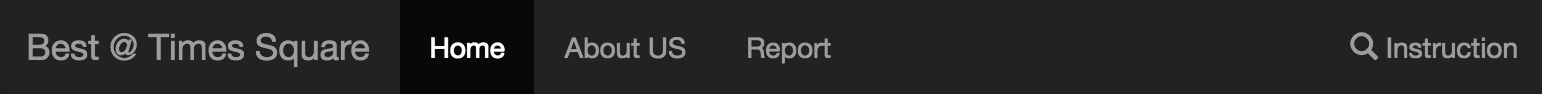
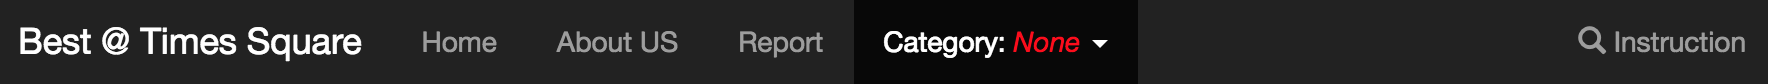
modal updated

diff --git a/EDAV/index.html b/EDAV/index.html
@@ -9,8 +9,8 @@
   <script src="https://ajax.googleapis.com/ajax/libs/jquery/1.9.1/jquery.min.js" ></script>
   <script src="https://ajax.googleapis.com/ajax/libs/jqueryui/1.10.2/jquery-ui.min.js"></script>
   <script type="text/javascript" src="https://cdnjs.cloudflare.com/ajax/libs/d3/2.10.0/d3.v2.min.js"></script>
-  <script type="text/javascript" src="https://maps.googleapis.com/maps/api/js?sensor=false"></script>
-  <!-- <script type="text/javascript" src="https://maps.googleapis.com/maps/api/js?key=AIzaSyDWx_-7PwHUJsp3sj0iT-SK8w_HTojODok&sensor=false&callback=initMap"></script> -->
+  <!-- <script type="text/javascript" src="https://maps.googleapis.com/maps/api/js?sensor=false"></script> -->
+  <script type="text/javascript" src="https://maps.googleapis.com/maps/api/js?key=AIzaSyDWx_-7PwHUJsp3sj0iT-SK8w_HTojODok&sensor=false&callback=initMap"></script>
   <link rel="stylesheet" href="https://ajax.googleapis.com/ajax/libs/jqueryui/1.9.0/themes/blitzer/jquery-ui.css" type="text/css">
   <link rel="stylesheet" href="https://maxcdn.bootstrapcdn.com/bootstrap/3.3.7/css/bootstrap.min.css">
   <!-- <script src="https://ajax.googleapis.com/ajax/libs/jquery/3.3.1/jquery.min.js"></script> -->
@@ -199,7 +199,21 @@
         </section>
         <section class="row">
           <div class="col-xs-12">
-            <img src="data/instructionbar.png" class="img-thumbnail" alt="blueCircle-Hotel">
+            <img src="data/nav_cat.png" class="img-thumbnail" alt="navbar-category">
+          </div>
+          <div class="col-xs-12">
+            <div class="col-xs-4">
+              <img src="data/red.png" class="img-thumbnail" alt="redCircle-Restaurant">
+            </div>
+            <div class="col-xs-8">
+              By clicking the <b>Category</b> option on navigation bar, you can choose the specific category restaurants. The chosen restaurant will show in color <font style="color: red">red</font>. 
+            </div>
+
+          </div>
+        </section>
+        <section class="row">
+          <div class="col-xs-12">
+            <img src="data/instructionbar.png" class="img-thumbnail" alt="instruction-bar">
           </div>
           <div class="col-xs-12">
             <center><h5>To see the <b><i>Instruction</i></b> again, please click the button at the <b>right top</b> corner.</h5></center>
